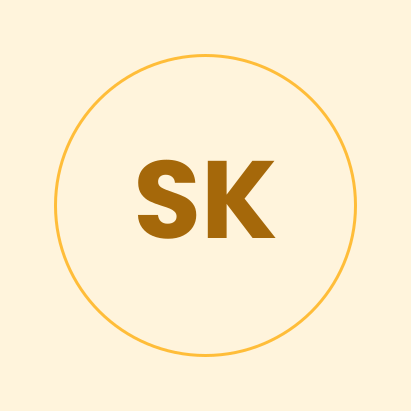
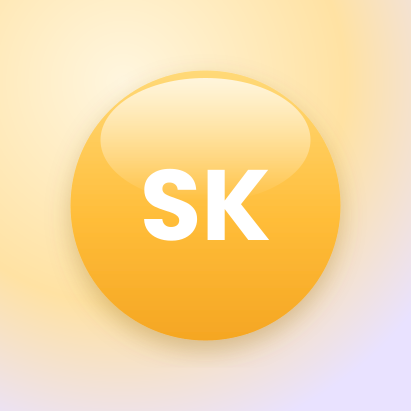
New glossy hero illustration and glass finish across the site
- Replace the network graphic with a glossy illustration: frosted-glass
  cards showing an AI workflow, a time-saved metric and a quote-time
  chart over soft color glows (transparent WebP, hidden behind the
  text on phones and tablets for readability)
- Add css/theme-gloss.css: soft fixed background glows, frosted-glass
  cards with sheen and hover lift, glossy gold buttons with a shine
  sweep, glass navbar, glossy progress bars and icons
- Glossy SK monogram
- Fallbacks for browsers without backdrop blur and for reduced motion

Claude-Session: https://claude.ai/code/session_01JxZweuyQYu4Quf7vREnBaY

diff --git a/css/theme-gloss.css b/css/theme-gloss.css
@@ -1,0 +1,168 @@
+/* Glossy finish: frosted-glass cards, soft background glows, shiny buttons.
+   Loaded after theme-light.css. Remove its <link> to go back to flat cards. */
+
+:root {
+  --glass: rgba(255, 255, 255, 0.58);
+  --glass-strong: rgba(255, 255, 255, 0.78);
+  --glass-edge: rgba(255, 255, 255, 0.85);
+  --glass-shadow: 0 18px 45px -22px rgba(138, 90, 16, 0.28), 0 2px 6px -2px rgba(31, 35, 40, 0.06);
+  --glass-inner: inset 0 1px 0 rgba(255, 255, 255, 0.95), inset 0 -1px 0 rgba(255, 255, 255, 0.35);
+  --gold: linear-gradient(180deg, #ffd978 0%, #ffbd39 55%, #f5a623 100%);
+}
+
+/* ---------- Soft color glows behind everything ---------- */
+body { position: relative; }
+body::before {
+  content: "";
+  position: fixed;
+  inset: 0;
+  z-index: -1;
+  pointer-events: none;
+  background:
+    radial-gradient(42vmax 42vmax at 88% 8%, rgba(255, 210, 122, 0.45), transparent 60%),
+    radial-gradient(38vmax 38vmax at 5% 45%, rgba(255, 184, 161, 0.30), transparent 60%),
+    radial-gradient(40vmax 40vmax at 80% 95%, rgba(207, 200, 255, 0.40), transparent 60%),
+    #fbfaf7;
+}
+body { background: transparent !important; }
+.owl-carousel.home-slider .slider-item,
+.ftco-section, .ftco-about, .contact-section, .detail-section { background: transparent !important; }
+
+/* ---------- One glass recipe for every card ---------- */
+.services-1,
+.resume-wrap,
+.ftco-counter .block-18,
+.contact-section .box,
+.package,
+.case-card,
+.other-service,
+.deliverable img,
+.about-mf .about-img img {
+  background: var(--glass) !important;
+  -webkit-backdrop-filter: blur(16px) saturate(160%);
+  backdrop-filter: blur(16px) saturate(160%);
+  border: 1px solid var(--glass-edge) !important;
+  box-shadow: var(--glass-shadow), var(--glass-inner) !important;
+  border-radius: 18px !important;
+}
+.case-card, .other-service { border-left: 1px solid var(--glass-edge) !important; position: relative; overflow: hidden; }
+.case-card::before, .other-service::before {
+  content: ""; position: absolute; left: 0; top: 0; bottom: 0; width: 4px; background: var(--gold);
+}
+.deliverable img { background: transparent !important; padding: 0; }
+
+/* light sheen across the top of each card */
+.services-1, .resume-wrap, .package, .contact-section .box { position: relative; overflow: hidden; }
+.services-1::after, .resume-wrap::after, .package::after, .contact-section .box::after {
+  content: "";
+  position: absolute; left: 0; right: 0; top: 0; height: 45%;
+  background: linear-gradient(180deg, rgba(255, 255, 255, 0.55), rgba(255, 255, 255, 0));
+  pointer-events: none;
+  border-radius: 18px 18px 0 0;
+}
+.services-1 > *, .resume-wrap > *, .package > *, .contact-section .box > * { position: relative; z-index: 1; }
+
+/* lift on hover */
+.services-1, .package, .case-card, .other-service, .resume-wrap, .contact-section .box {
+  transition: transform .25s ease, box-shadow .25s ease, background .25s ease;
+}
+.services-1:hover, .package:hover, .case-card:hover, .other-service:hover, .contact-section .box:hover {
+  transform: translateY(-4px);
+  box-shadow: 0 26px 55px -24px rgba(138, 90, 16, 0.38), var(--glass-inner) !important;
+}
+.services-1:hover, .other-service:hover { background: var(--gold) !important; }
+.package.featured { background: var(--glass-strong) !important; border-top: 1px solid var(--glass-edge) !important; }
+.package.featured::before {
+  content: ""; position: absolute; left: 0; right: 0; top: 0; height: 4px; background: var(--gold); z-index: 2;
+}
+
+/* ---------- Glossy buttons ---------- */
+.btn.btn-primary {
+  background: var(--gold) !important;
+  border: 1px solid rgba(255, 255, 255, 0.6) !important;
+  box-shadow: 0 10px 24px -10px rgba(245, 166, 35, 0.75), inset 0 1px 0 rgba(255, 255, 255, 0.8) !important;
+  position: relative;
+  overflow: hidden;
+  transition: transform .2s ease, box-shadow .2s ease;
+}
+.btn.btn-primary::after {
+  content: "";
+  position: absolute; top: 0; left: -60%; width: 40%; height: 100%;
+  background: linear-gradient(100deg, transparent, rgba(255, 255, 255, 0.6), transparent);
+  transform: skewX(-20deg);
+  transition: left .6s ease;
+}
+.btn.btn-primary:hover { transform: translateY(-2px); box-shadow: 0 16px 30px -12px rgba(245, 166, 35, 0.85), inset 0 1px 0 rgba(255, 255, 255, 0.8) !important; }
+.btn.btn-primary:hover::after { left: 120%; }
+.btn.btn-white.btn-outline-white {
+  background: var(--glass) !important;
+  -webkit-backdrop-filter: blur(12px);
+  backdrop-filter: blur(12px);
+  border: 1px solid rgba(31, 35, 40, 0.18) !important;
+  box-shadow: var(--glass-inner);
+}
+
+/* ---------- Bars, chips and icons ---------- */
+.skill-mf .progress { border-radius: 10px !important; background: rgba(31, 35, 40, 0.07) !important; overflow: hidden; }
+.skill-mf .progress .progress-bar {
+  border-radius: 10px;
+  background: var(--gold) !important;
+  box-shadow: inset 0 1px 0 rgba(255, 255, 255, 0.7);
+}
+.contact-section .box .icon, .ftco-footer-social li a {
+  background: var(--glass-strong) !important;
+  border: 1px solid var(--glass-edge);
+  box-shadow: 0 8px 18px -10px rgba(138, 90, 16, 0.35), var(--glass-inner);
+}
+.page-hero .range { background: var(--glass-strong); box-shadow: var(--glass-inner); }
+.step-item:before { background: var(--gold); box-shadow: 0 8px 16px -8px rgba(245, 166, 35, 0.8), inset 0 1px 0 rgba(255, 255, 255, 0.8); }
+
+/* ---------- Banner, bands and footer as glass panels ---------- */
+.ftco-hireme {
+  background: linear-gradient(135deg, rgba(255, 236, 196, 0.75), rgba(240, 236, 255, 0.65)) !important;
+  -webkit-backdrop-filter: blur(10px);
+  backdrop-filter: blur(10px);
+  border-top: 1px solid var(--glass-edge);
+  border-bottom: 1px solid var(--glass-edge);
+}
+.detail-section[style], .cta-band {
+  background: rgba(255, 255, 255, 0.38) !important;
+  border-top: 1px solid var(--glass-edge);
+  border-bottom: 1px solid var(--glass-edge);
+}
+.ftco-footer { background: rgba(255, 255, 255, 0.5) !important; -webkit-backdrop-filter: blur(10px); backdrop-filter: blur(10px); }
+
+/* ---------- Navigation ---------- */
+.ftco-navbar-light, .ftco-navbar-light.scrolled {
+  background: rgba(255, 255, 255, 0.62) !important;
+  -webkit-backdrop-filter: blur(18px) saturate(170%);
+  backdrop-filter: blur(18px) saturate(170%);
+  border-bottom: 1px solid var(--glass-edge) !important;
+  box-shadow: 0 10px 30px -20px rgba(31, 35, 40, 0.25);
+}
+@media (max-width: 991.98px) {
+  .ftco-navbar-light .navbar-collapse { background: transparent; }
+}
+
+/* Phones: keep hero text readable over the illustration */
+@media (max-width: 991.98px) {
+  .owl-carousel.home-slider .slider-item .slider-text .one-third .overlay { opacity: .82 !important; }
+}
+
+/* Browsers without backdrop blur: use a more opaque card so text stays readable */
+@supports not ((backdrop-filter: blur(1px)) or (-webkit-backdrop-filter: blur(1px))) {
+  .services-1, .resume-wrap, .ftco-counter .block-18, .contact-section .box,
+  .package, .case-card, .other-service { background: rgba(255, 255, 255, 0.92) !important; }
+}
+
+/* Respect reduced-motion settings */
+@media (prefers-reduced-motion: reduce) {
+  .services-1, .package, .case-card, .other-service, .btn.btn-primary, .btn.btn-primary::after { transition: none !important; }
+  .services-1:hover, .package:hover, .case-card:hover, .other-service:hover, .btn.btn-primary:hover { transform: none; }
+}
+
+/* Phones and tablets: the hero text sits over the illustration, so hide it for clarity */
+@media (max-width: 991.98px) {
+  .owl-carousel.home-slider .slider-item .slider-text .one-third { background-image: none !important; }
+  .owl-carousel.home-slider .slider-item .slider-text .one-third .overlay { opacity: 0 !important; }
+}

diff --git a/index.html b/index.html
@@ -25,6 +25,7 @@
 
 <link rel="stylesheet" href="css/custom.css">
     <link rel="stylesheet" href="css/theme-light.css">
+    <link rel="stylesheet" href="css/theme-gloss.css">
 
   </head>
   <body data-spy="scroll" data-target=".site-navbar-target" data-offset="300">
@@ -55,8 +56,8 @@
           <div class="overlay"></div>
           <div class="container">
             <div class="row d-md-flex no-gutters slider-text align-items-end justify-content-end" data-scrollax-parent="true">
-              <!-- Replace images/hero.png with your own photo (same size works best: 1000 x 1194) -->
-              <div class="one-third js-fullheight order-md-last img" style="background-image:url(images/hero.png);">
+              <!-- Replace images/hero.webp with your own photo (same size works best: 1000 x 1194) -->
+              <div class="one-third js-fullheight order-md-last img" style="background-image:url(images/hero.webp);">
                 <div class="overlay"></div>
               </div>
               <div class="one-forth d-flex align-items-center ftco-animate" data-scrollax=" properties: { translateY: '70%' }">

diff --git a/ai-audit.html b/ai-audit.html
@@ -18,6 +18,7 @@
     <link rel="stylesheet" href="css/style.css">
     <link rel="stylesheet" href="css/custom.css">
     <link rel="stylesheet" href="css/theme-light.css">
+    <link rel="stylesheet" href="css/theme-gloss.css">
   </head>
   <body>
 

diff --git a/ai-solution-build.html b/ai-solution-build.html
@@ -18,6 +18,7 @@
     <link rel="stylesheet" href="css/style.css">
     <link rel="stylesheet" href="css/custom.css">
     <link rel="stylesheet" href="css/theme-light.css">
+    <link rel="stylesheet" href="css/theme-gloss.css">
   </head>
   <body>
 

diff --git a/ai-workflow-blueprint.html b/ai-workflow-blueprint.html
@@ -18,6 +18,7 @@
     <link rel="stylesheet" href="css/style.css">
     <link rel="stylesheet" href="css/custom.css">
     <link rel="stylesheet" href="css/theme-light.css">
+    <link rel="stylesheet" href="css/theme-gloss.css">
   </head>
   <body>
 

diff --git a/consulting.html b/consulting.html
@@ -18,6 +18,7 @@
     <link rel="stylesheet" href="css/style.css">
     <link rel="stylesheet" href="css/custom.css">
     <link rel="stylesheet" href="css/theme-light.css">
+    <link rel="stylesheet" href="css/theme-gloss.css">
   </head>
   <body>
 

diff --git a/README.md b/README.md
@@ -31,6 +31,6 @@ python3 -m http.server 8000
 
 ## Personalize
 
-- `images/hero.png` (1000 × 1194) and `images/profile.png` (square) are placeholder graphics. Replace them with your own photos using the same file names.
+- `images/hero.webp` (1000 × 1194) and `images/profile.png` (square) are placeholder graphics. Replace them with your own photos using the same file names.
 - Example deliverables for the consulting page live in `images/work/`. For the other services, put images in `images/work/<page-name>/` and copy the "What you receive" block from `consulting.html` into the marked spot in that page.
 - Page text, prices and links are in the `.html` files; shared styles are in `css/custom.css`.
